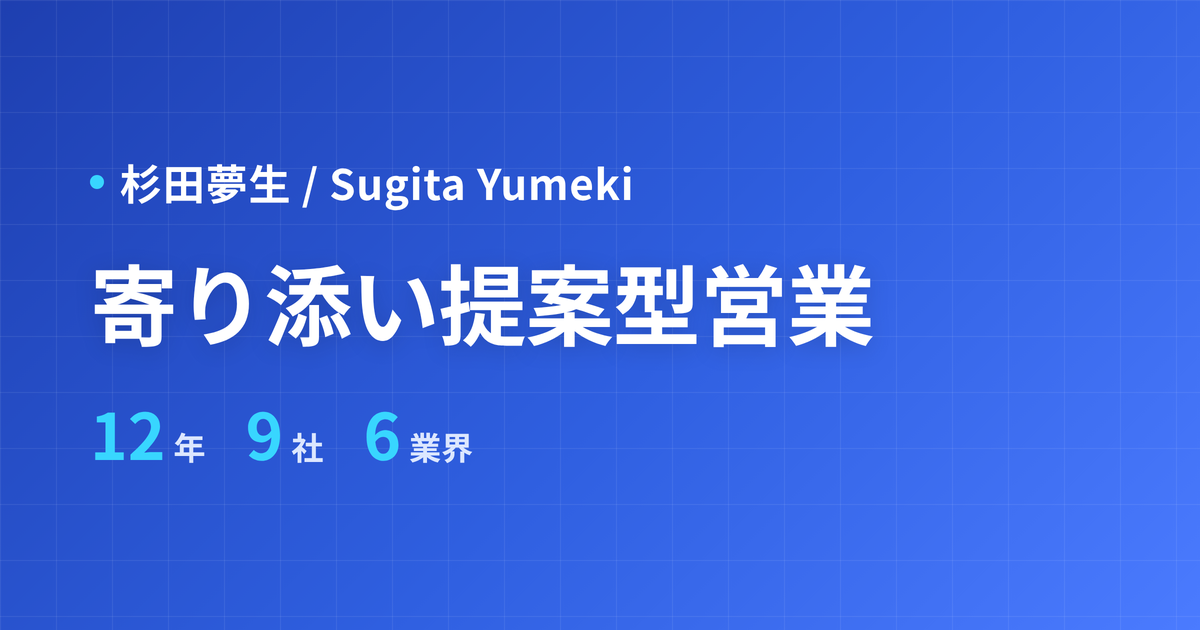
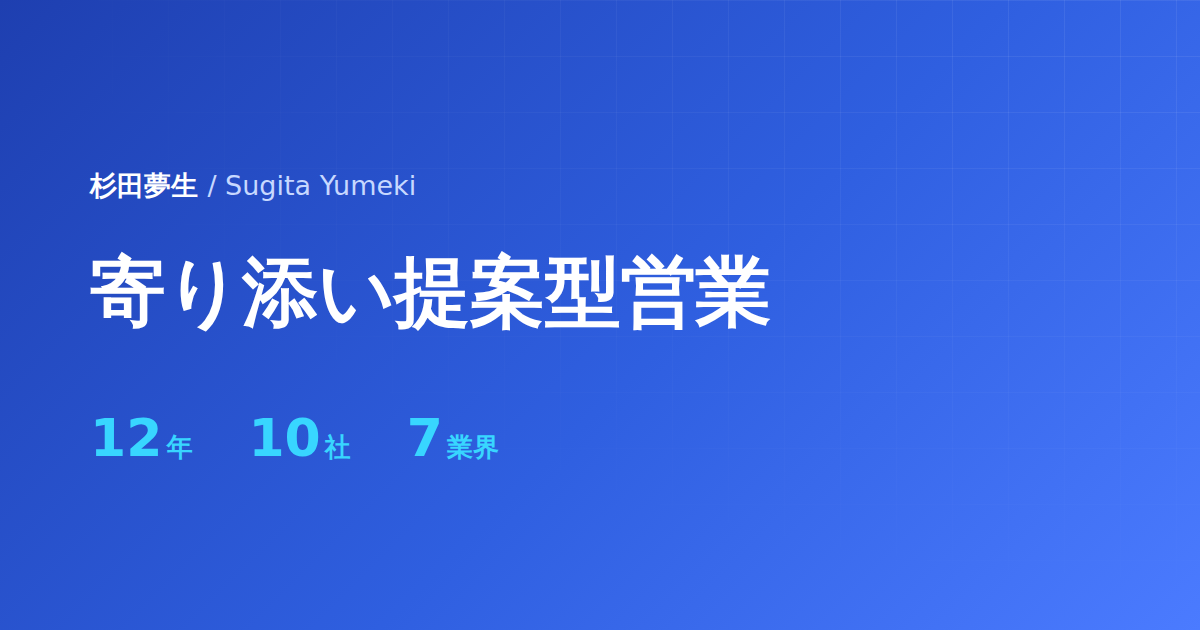
OGPシェア画像を最新の実績（10社・7業界）に更新し、名前前の「・」を削除
assets/img/ogp.pngが「9社 6業界」時代のまま古くなっていたため、実際のサイト本文
（12年・10社・7業界）に合わせて作り直した。杉田夢生の名前の前に付いていた
装飾のドット「・」も、意味を持たない要素だったため削除。

デザイン（青のグラデーション背景・グリッド柄・配色・レイアウト）はhero
セクションのCSS（--blue-700/600/500、--cyan-400、.hero::beforeのグリッド
パターン）をそのまま踏襲し、1200x630のPlaywrightスクリーンショットとして
再生成した。

生成元のHTML（assets/img/ogp-source.html）もリポジトリに残した。数字や
文言だけの変更なら、次回はこのファイルを直接書き換えてブラウザで
スクリーンショットを撮るだけで済む（ファイル冒頭にやり方を記載）。
README.mdのファイル構成にも追記。

Changed region(s): [[0.0617, 0.3921, 0.74, 0.573], [0.0617, 0.2413, 0.5242, 0.3317], [0.0617, 0.6333, 0.4317, 0.754]]

diff --git a/assets/img/ogp-source.html b/assets/img/ogp-source.html
@@ -1,0 +1,111 @@
+<!--
+  ogp.png（リンクシェア時に表示される画像）の生成元。サイトの一部として読み込まれる
+  ファイルではなく、ogp.pngを作り直す時にブラウザで開いて使うためだけの素材。
+
+  更新のしかた（12年・10社・7業界の数字や文言を変えたい時）：
+    1. 下の「12」「10」「7」や見出し・名前のテキストを直接書き換える
+    2. このファイルをブラウザ（Chrome推奨）で開く
+    3. 開発者ツールのデバイスツールバーで幅1200×高さ630のスクリーンショットを撮る
+       （またはヘッドレスブラウザで viewport 1200x630, device_scale_factor 1 で撮影）
+    4. 撮った画像を assets/img/ogp.png として上書き保存する
+
+  デザイン（青のグラデーション背景・グリッド柄・配色）はstyle.cssの.hero /
+  .hero::beforeをそのまま踏襲しているので、hero側のデザインを変えた時は
+  こちらも合わせて直すこと。
+-->
+<!doctype html>
+<html>
+<head>
+<meta charset="utf-8">
+<link rel="preconnect" href="https://fonts.googleapis.com">
+<link rel="preconnect" href="https://fonts.gstatic.com" crossorigin>
+<link href="https://fonts.googleapis.com/css2?family=Inter:wght@400;600;700&family=Noto+Sans+JP:wght@400;700&display=swap" rel="stylesheet">
+<style>
+  * { margin: 0; padding: 0; box-sizing: border-box; }
+  html, body {
+    width: 1200px;
+    height: 630px;
+    overflow: hidden;
+    font-family: "Noto Sans JP", "Hiragino Kaku Gothic ProN", "Hiragino Sans", system-ui, sans-serif;
+  }
+  .card {
+    position: relative;
+    width: 1200px;
+    height: 630px;
+    background: linear-gradient(135deg, #1E3FB0 0%, #2F5FE0 55%, #4B7BFF 100%);
+    overflow: hidden;
+  }
+  .card::before {
+    content: "";
+    position: absolute;
+    inset: 0;
+    background-image:
+      linear-gradient(rgba(255,255,255,0.07) 1px, transparent 1px),
+      linear-gradient(90deg, rgba(255,255,255,0.07) 1px, transparent 1px);
+    background-size: 56px 56px;
+    -webkit-mask-image: radial-gradient(ellipse at top right, #000 10%, transparent 70%);
+    mask-image: radial-gradient(ellipse at top right, #000 10%, transparent 70%);
+  }
+  .content {
+    position: relative;
+    padding: 0 90px;
+  }
+  .name-row {
+    position: absolute;
+    top: 168px;
+    left: 90px;
+    font-size: 27px;
+    font-weight: 700;
+    color: #fff;
+  }
+  .name-row .en {
+    font-family: "Inter", "Noto Sans JP", system-ui, sans-serif;
+    font-weight: 400;
+    color: #C7D8FF;
+  }
+  h1 {
+    position: absolute;
+    top: 246px;
+    left: 90px;
+    font-size: 76px;
+    font-weight: 700;
+    color: #fff;
+    letter-spacing: -0.01em;
+    line-height: 1.2;
+  }
+  .stats {
+    position: absolute;
+    top: 408px;
+    left: 90px;
+    display: flex;
+    align-items: baseline;
+    gap: 56px;
+  }
+  .stat-num {
+    font-family: "Inter", "Noto Sans JP", system-ui, sans-serif;
+    font-weight: 700;
+    color: #38D6FF;
+    font-size: 52px;
+  }
+  .stat-num .unit {
+    font-family: "Noto Sans JP", sans-serif;
+    font-weight: 700;
+    font-size: 26px;
+    margin-left: 4px;
+  }
+</style>
+</head>
+<body>
+  <div class="card">
+    <div class="content">
+      <div class="name-row">杉田夢生 <span class="en">/ Sugita Yumeki</span></div>
+      <h1>寄り添い提案型営業</h1>
+      <div class="stats">
+        <span class="stat-num">12<span class="unit">年</span></span>
+        <span class="stat-num">10<span class="unit">社</span></span>
+        <span class="stat-num">7<span class="unit">業界</span></span>
+      </div>
+    </div>
+  </div>
+</body>
+</html>

diff --git a/README.md b/README.md
@@ -204,6 +204,9 @@ assets/js/admin.js       管理画面のロジック（周囲からの声：loca
 assets/js/admin-backoffice.js 管理画面のロジック（対応への声：localStorage管理・コード生成。
                           継続的な回答フォームが無いため取り込み機能は無い）
 assets/img/               写真・アイコン類（strength-icon の3点はSVGアイコン）
+assets/img/ogp.png         リンクシェア時に表示されるOGP画像
+assets/img/ogp-source.html ogp.pngの生成元（サイトには読み込まれない。数字や
+                          文言を変えて作り直す時に使う。ファイル冒頭のコメント参照）
 docs/apps-script-sheet-api.gs.txt  回答スプレッドシートをJSON APIとして公開するApps Scriptコード（④参照）
 .nojekyll                 GitHub PagesのJekyll処理をスキップするための空ファイル
 ```
